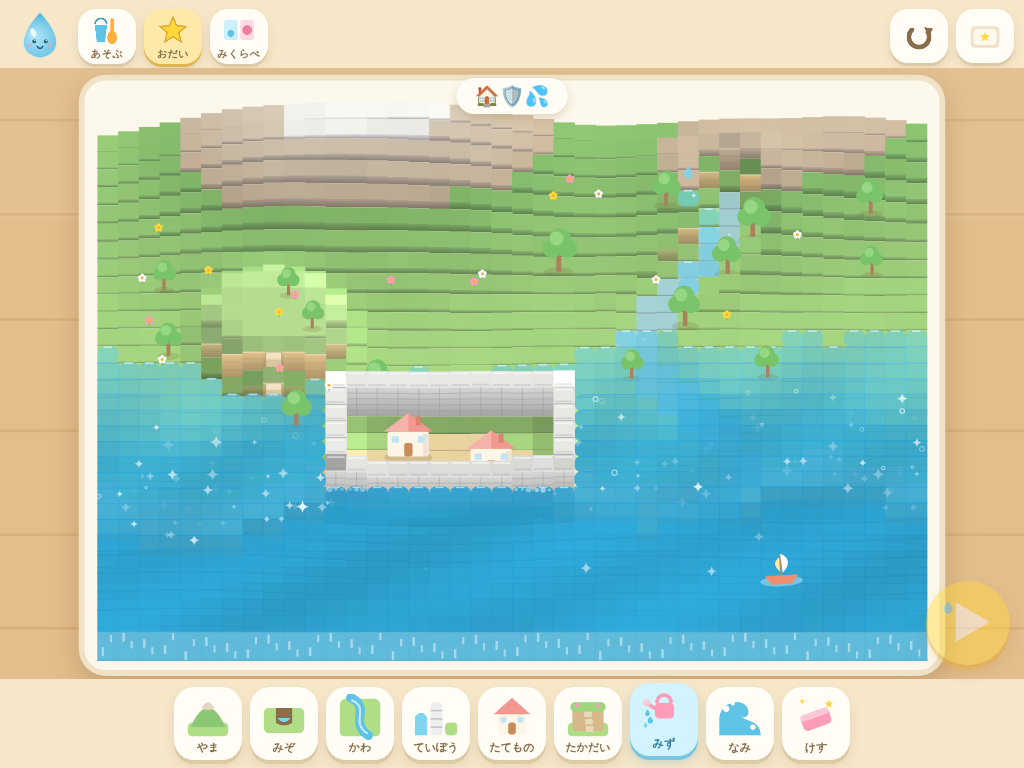
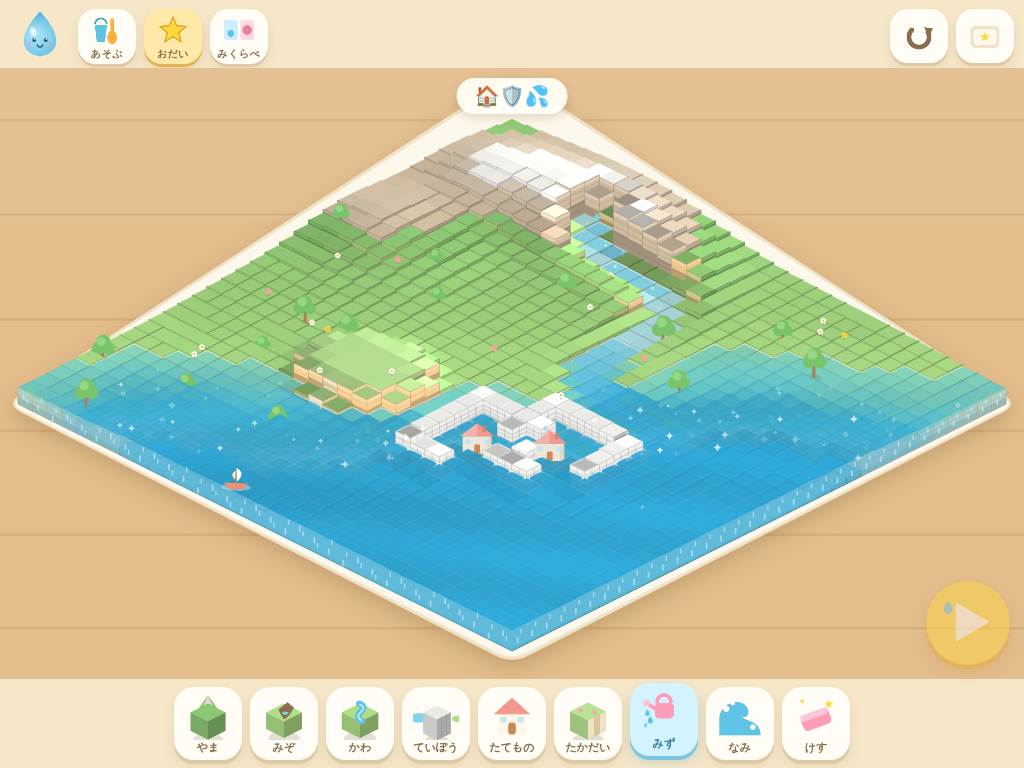
README とスクリーンショットを真アイソメ版に更新 (作業中スナップショット)
Claude-Session: https://claude.ai/code/session_017xpx42Ng2X4j5ejdToF4Wh

diff --git a/README.md b/README.md
@@ -49,7 +49,11 @@ python3 -m http.server 8000
 ## しくみ
 
 - 素の HTML5 + Canvas 2D。`file://` でもそのまま動くよう、ES modules を使わずグローバル名前空間で構成
-- 地形は 40×30 のハイトマップ。描画は縦オブリーク投影で、段差を「壁面」として描くジオラマ表現
+- 地形は 34×34 のハイトマップ。描画は **真アイソメ投影**(ひし形グリッド、2:1)。
+  格子点 (gx, gy) と高さ h を `px = ox + (gx-gy)*tw/2`, `py = oy + (gx+gy)*th/2 - h*eh` でスクリーン座標に変換し、
+  各セルを対角線 `s = x+y` の昇順(奥→手前)に描くことで奥行きの前後関係を出す。
+  1マスは「上面(ひし形)+右面+左面」の3面ブロックとして描き、段差をそのまま壁として表現するジオラマ表現。
+  グリッドは奥の頂点側が山なみ、手前の頂点側が海という対角線構図になっている
 - 水はセルオートマトン(表面高の低い隣へ流す)による簡易流体。海はイベント時に水位が上下する固定水源
 - 効果音は WebAudio でリアルタイム合成、音声は SpeechSynthesis(ja-JP)。音声アセット不要
 
@@ -64,7 +68,9 @@ js/terrain.js     ハイトマップ・マップ生成・編集ツール・undo
 js/water.js       水シミュレーション・大波イベント・ぬれ判定
 js/entities.js    建物/木/花/舟の描画
 js/particles.js   きらきら・あわ・しぶき・花びら
-js/render.js      ジオラマ描画(投影・壁面・水面・なぎさ)
+js/iso.js         真アイソメ投影・当たり判定API(project/pick など)
+js/render.js      ジオラマ描画(真アイソメ・壁面・なぎさ)
+js/water_render.js 水のひし形描画(水面・段差の滝・きらきら)
 js/icons.js       ボタンアイコン(ミニチュアを直接描画)
 js/mascot.js      マスコット「ぷるちゃん」
 js/modes.js       モード管理・おだい定義と判定・みくらべ
